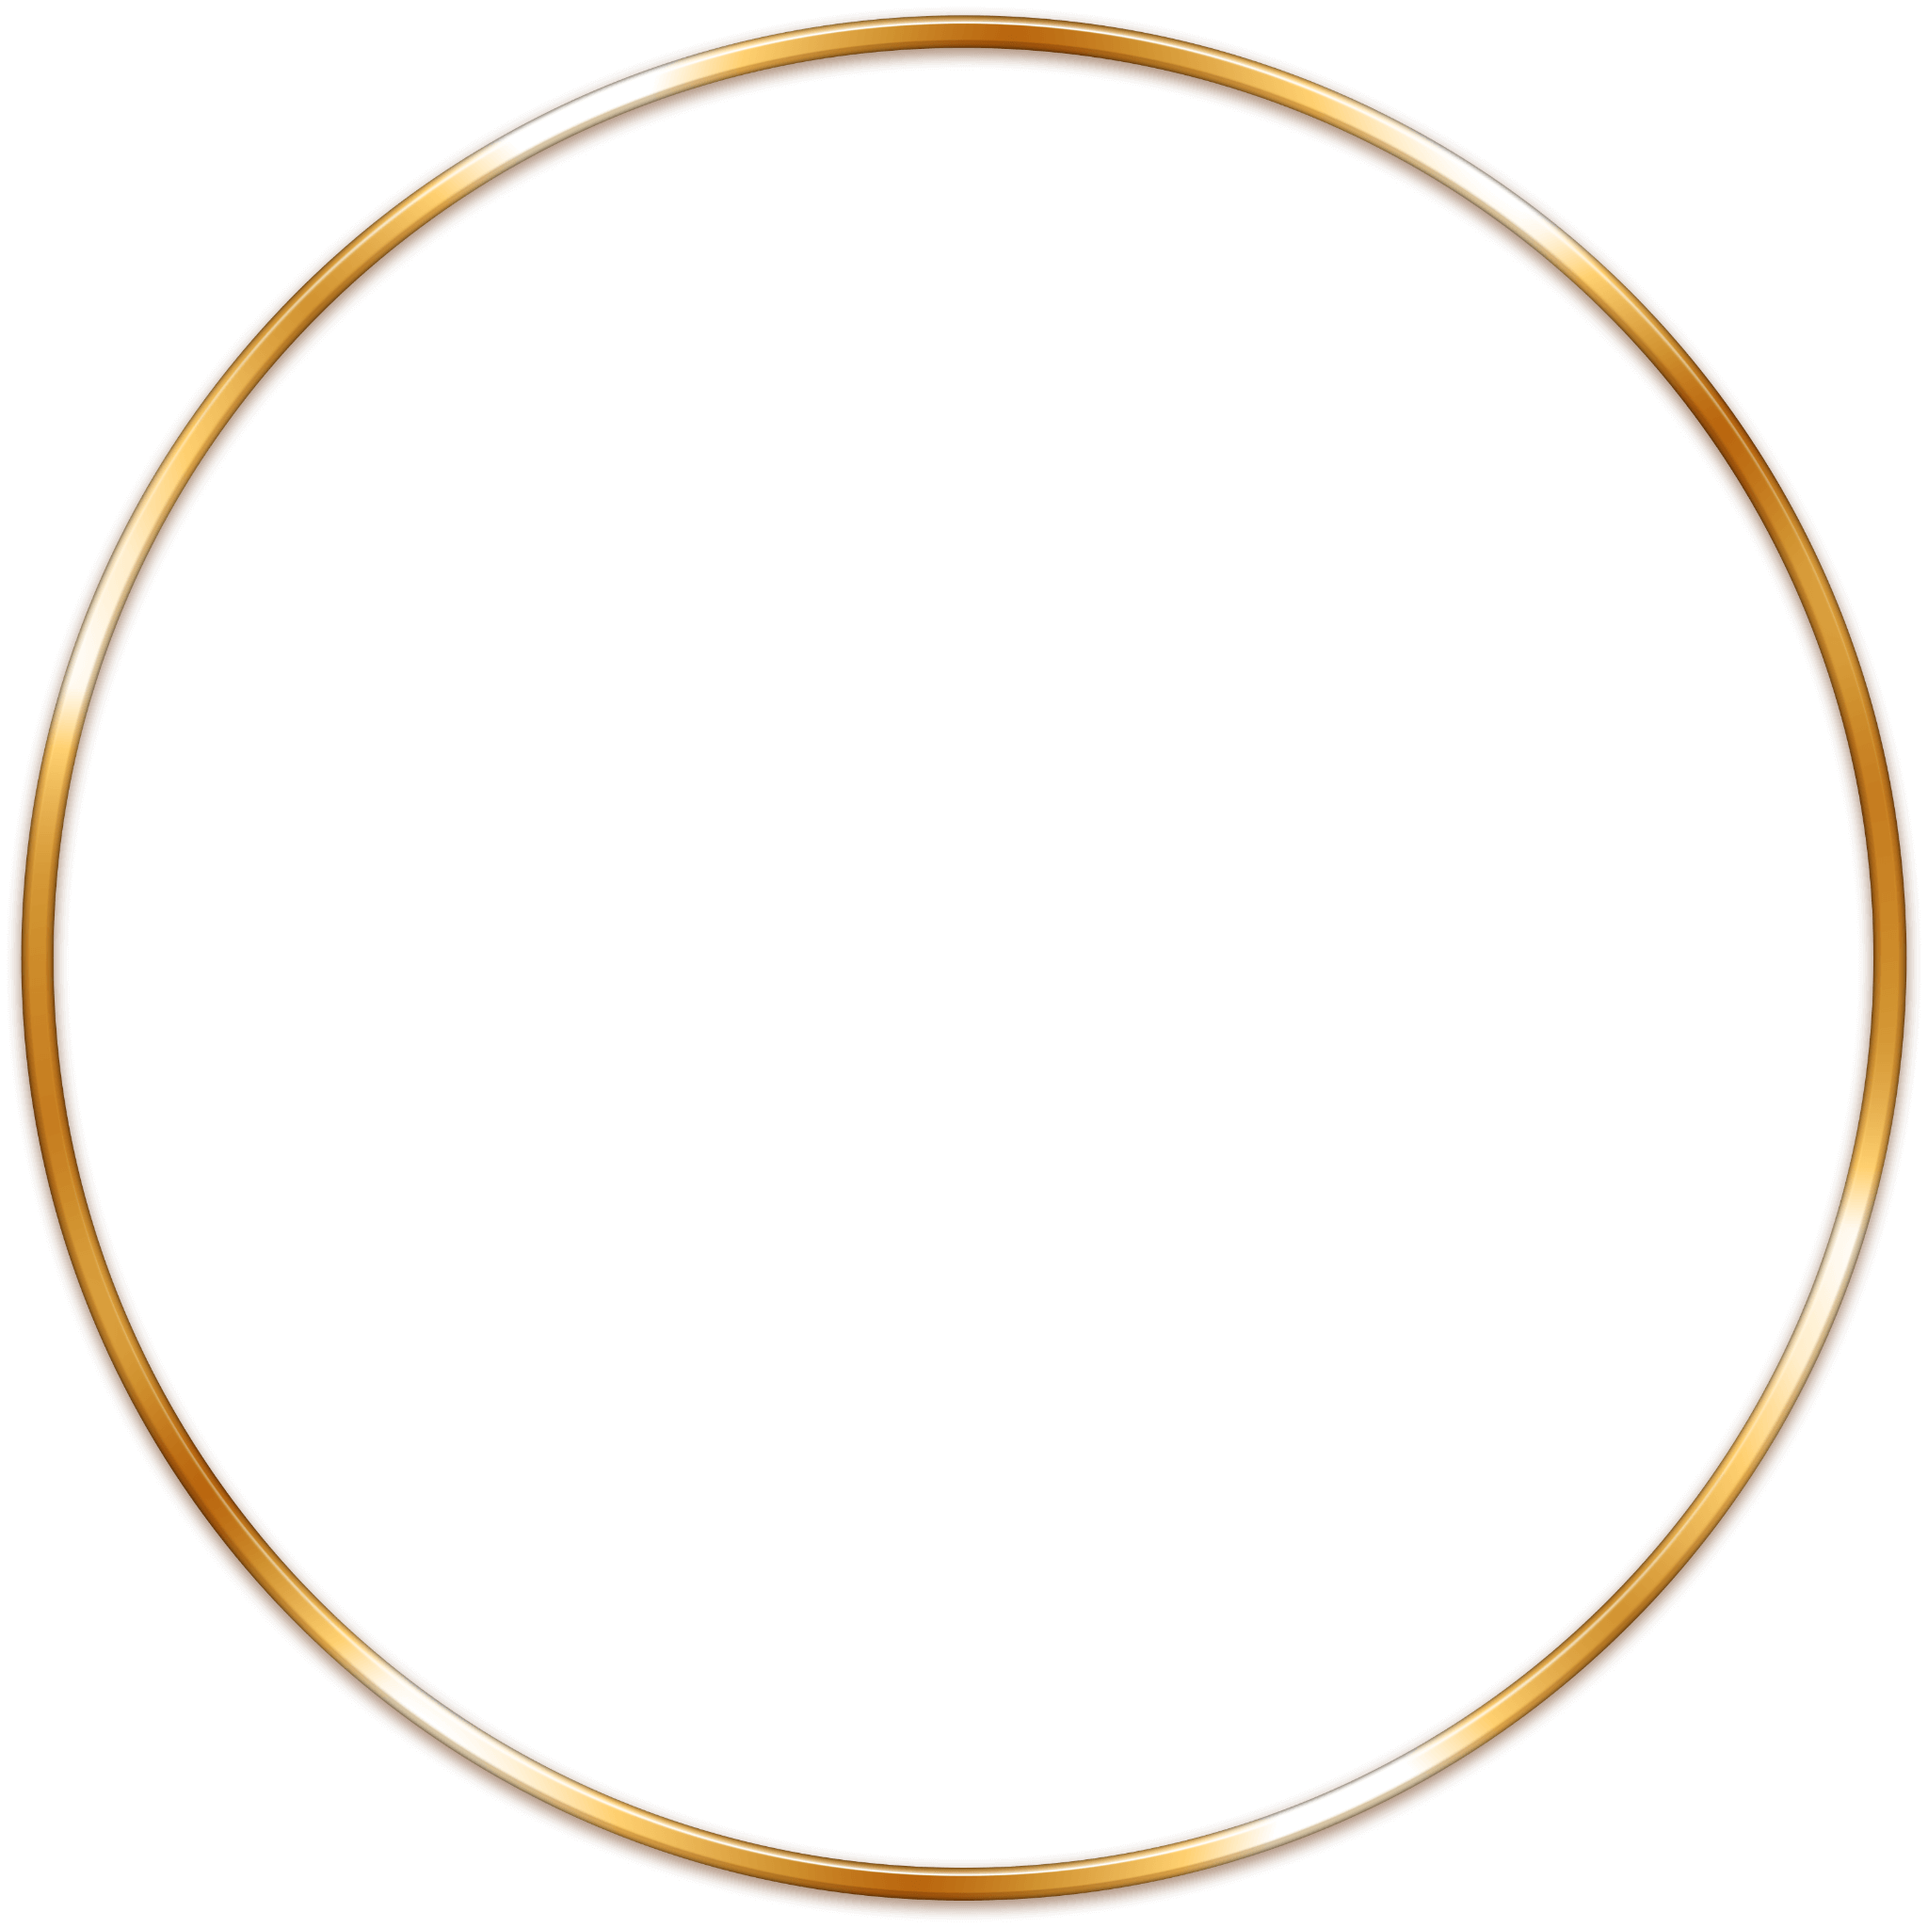
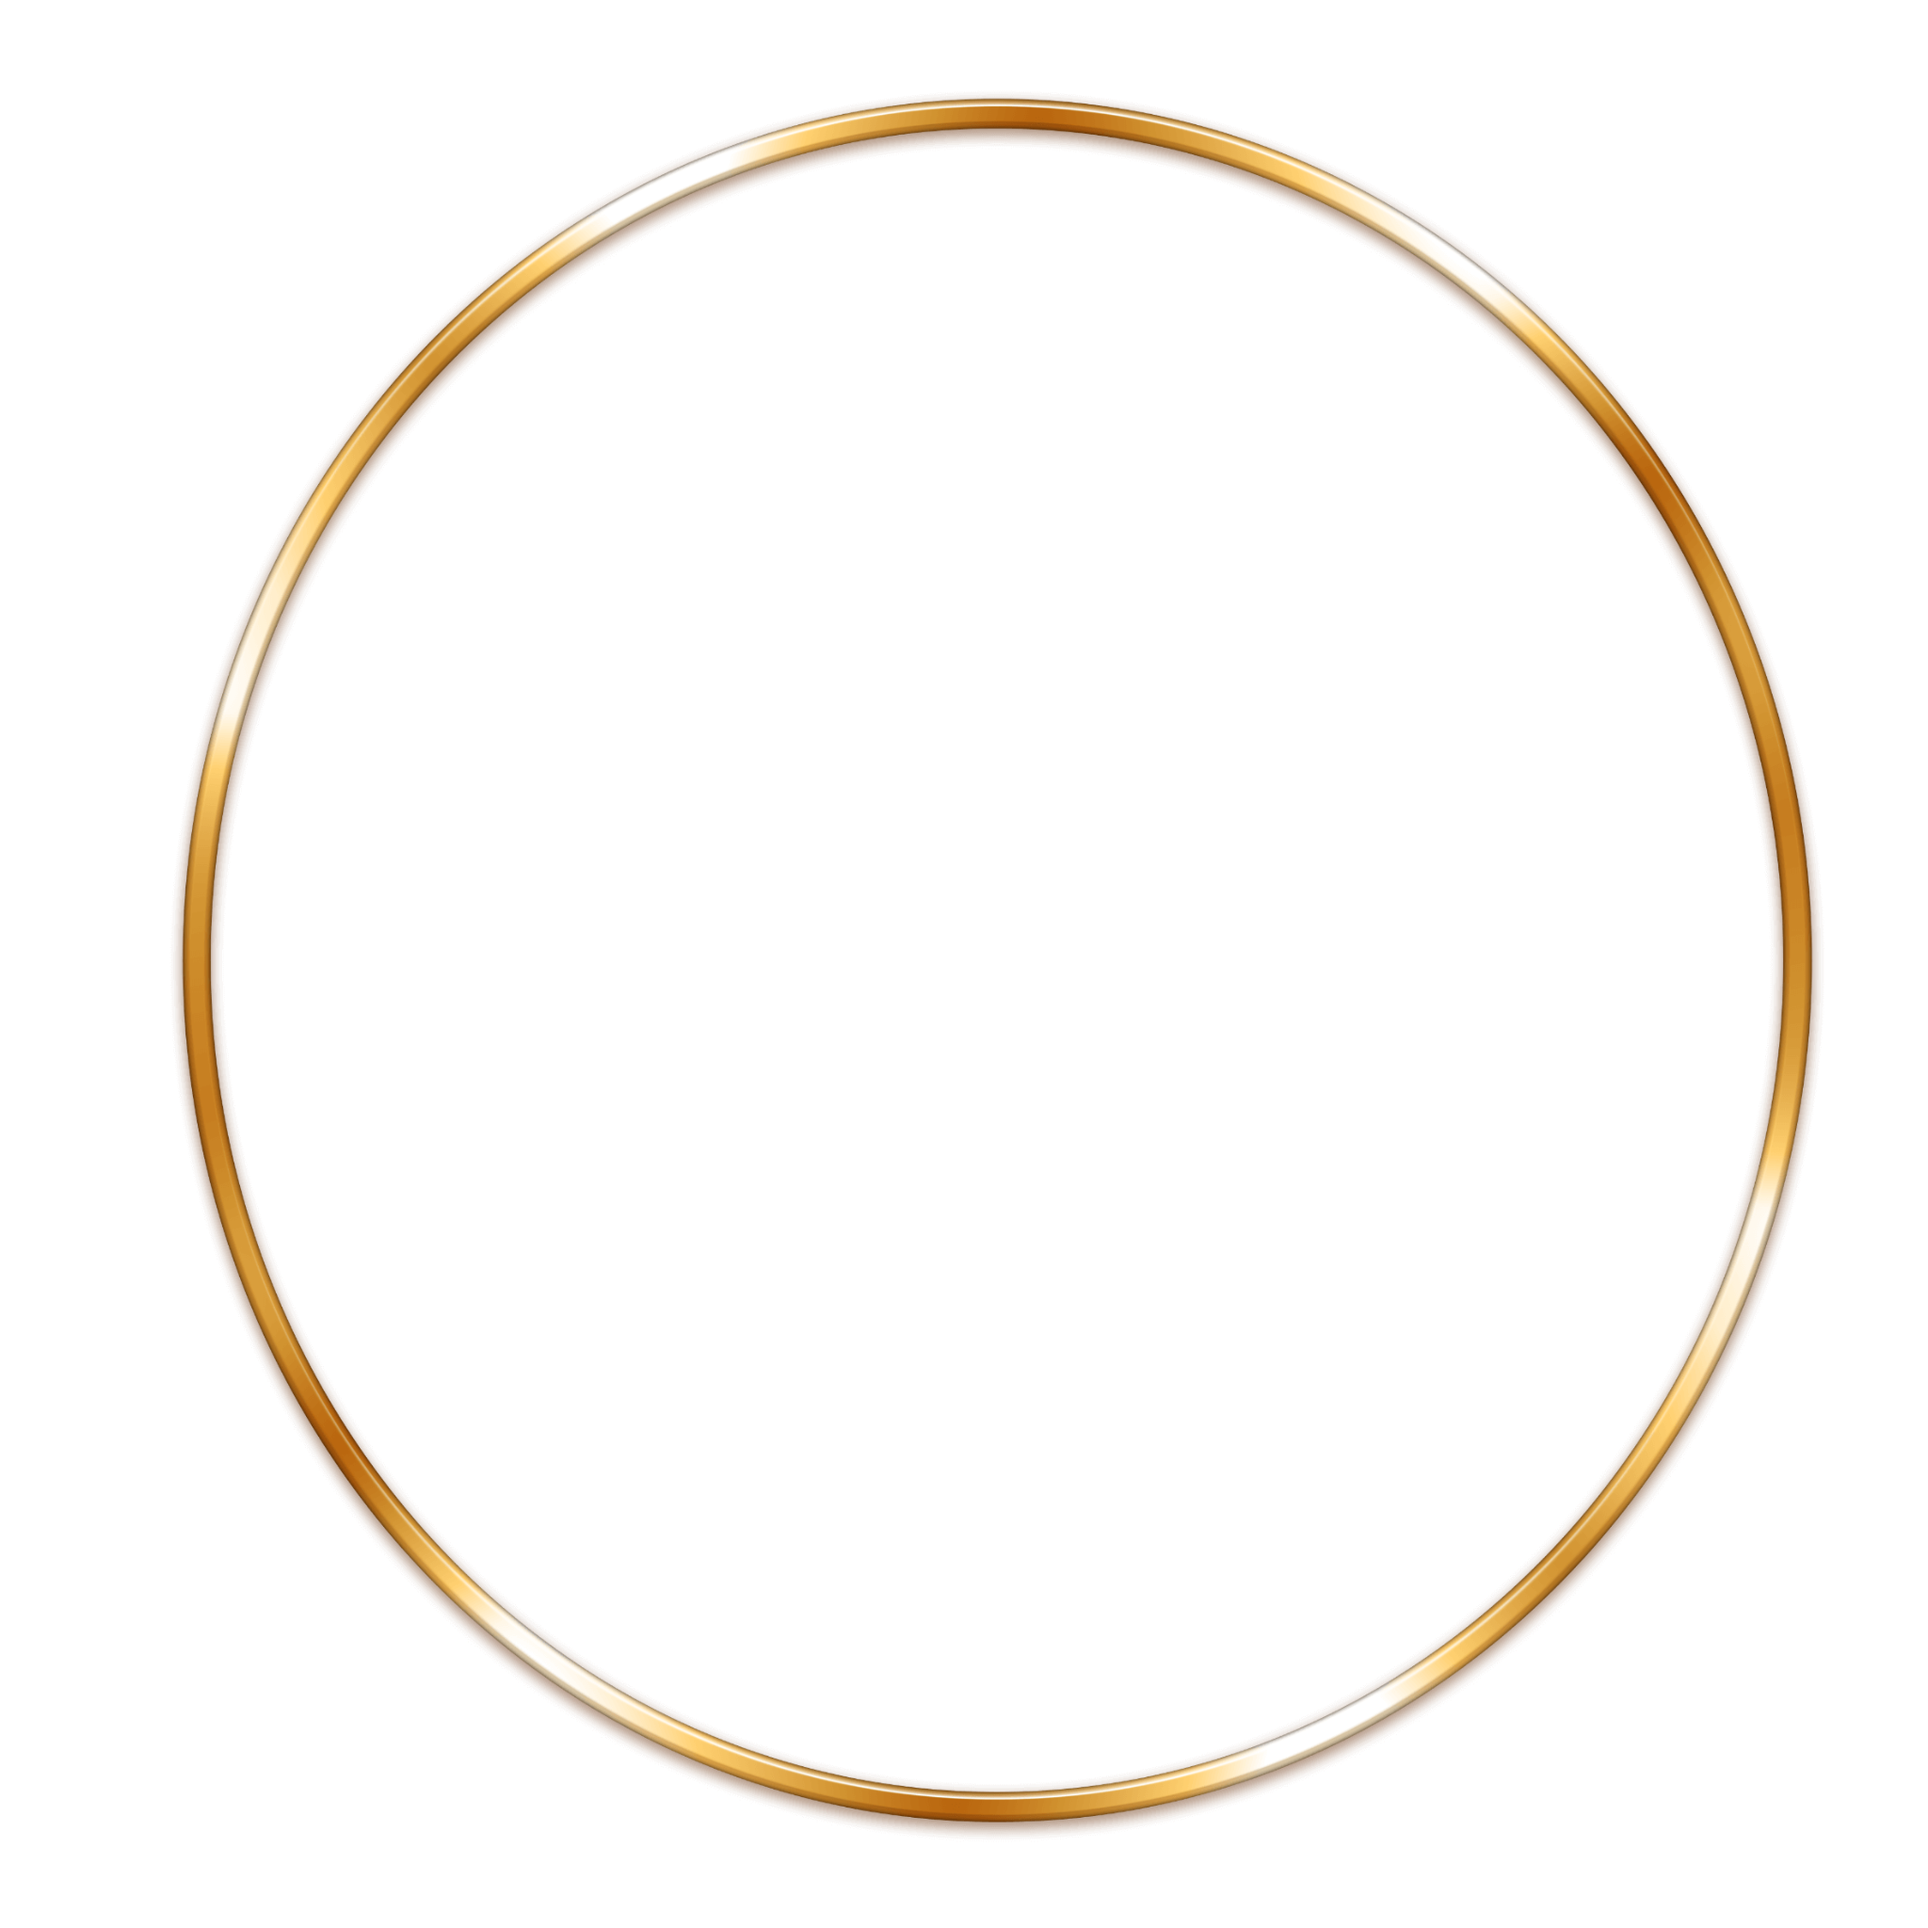
final

Changed region(s): [[0.0, 0.0, 1.0, 1.0]]

diff --git a/canvas.js b/canvas.js
@@ -16,7 +16,7 @@ let lightPart1 = new Image()
 let lightPart2 = new Image()
 let isAnimate = false
 let wheelBlock
-
+let angleDelta = 19
 if(canvas.width > canvas.height) {
   wheelBlock = {
     width: canvas.width * 0.7,
@@ -121,9 +121,9 @@ function motion() {
       rotationSpeed = 0
     }
     
-    addImageWithMotion(imgWheel, 19, 9, 0, 0.87, isAnimation, currentRotation)
+    addImageWithMotion(imgWheel, 19, 7, 0, 0.87, isAnimation, currentRotation)
 
-    addImage(ring, 19, canvas.width  * 0.008, 2, 0.91, true,1)
+    addImage(ring, 0, 0, 2, 1, true,1)
     addImage(innerDisk, 0, 10, 0, 0.4, true,1)
     addImage(cursorOff, 0, canvas.width * 0.01, -wheelBlock.height * 0.45, 0.1, true,1)
     addImage(lightPart1, 0, 0, 0, 1, true, delta1)
